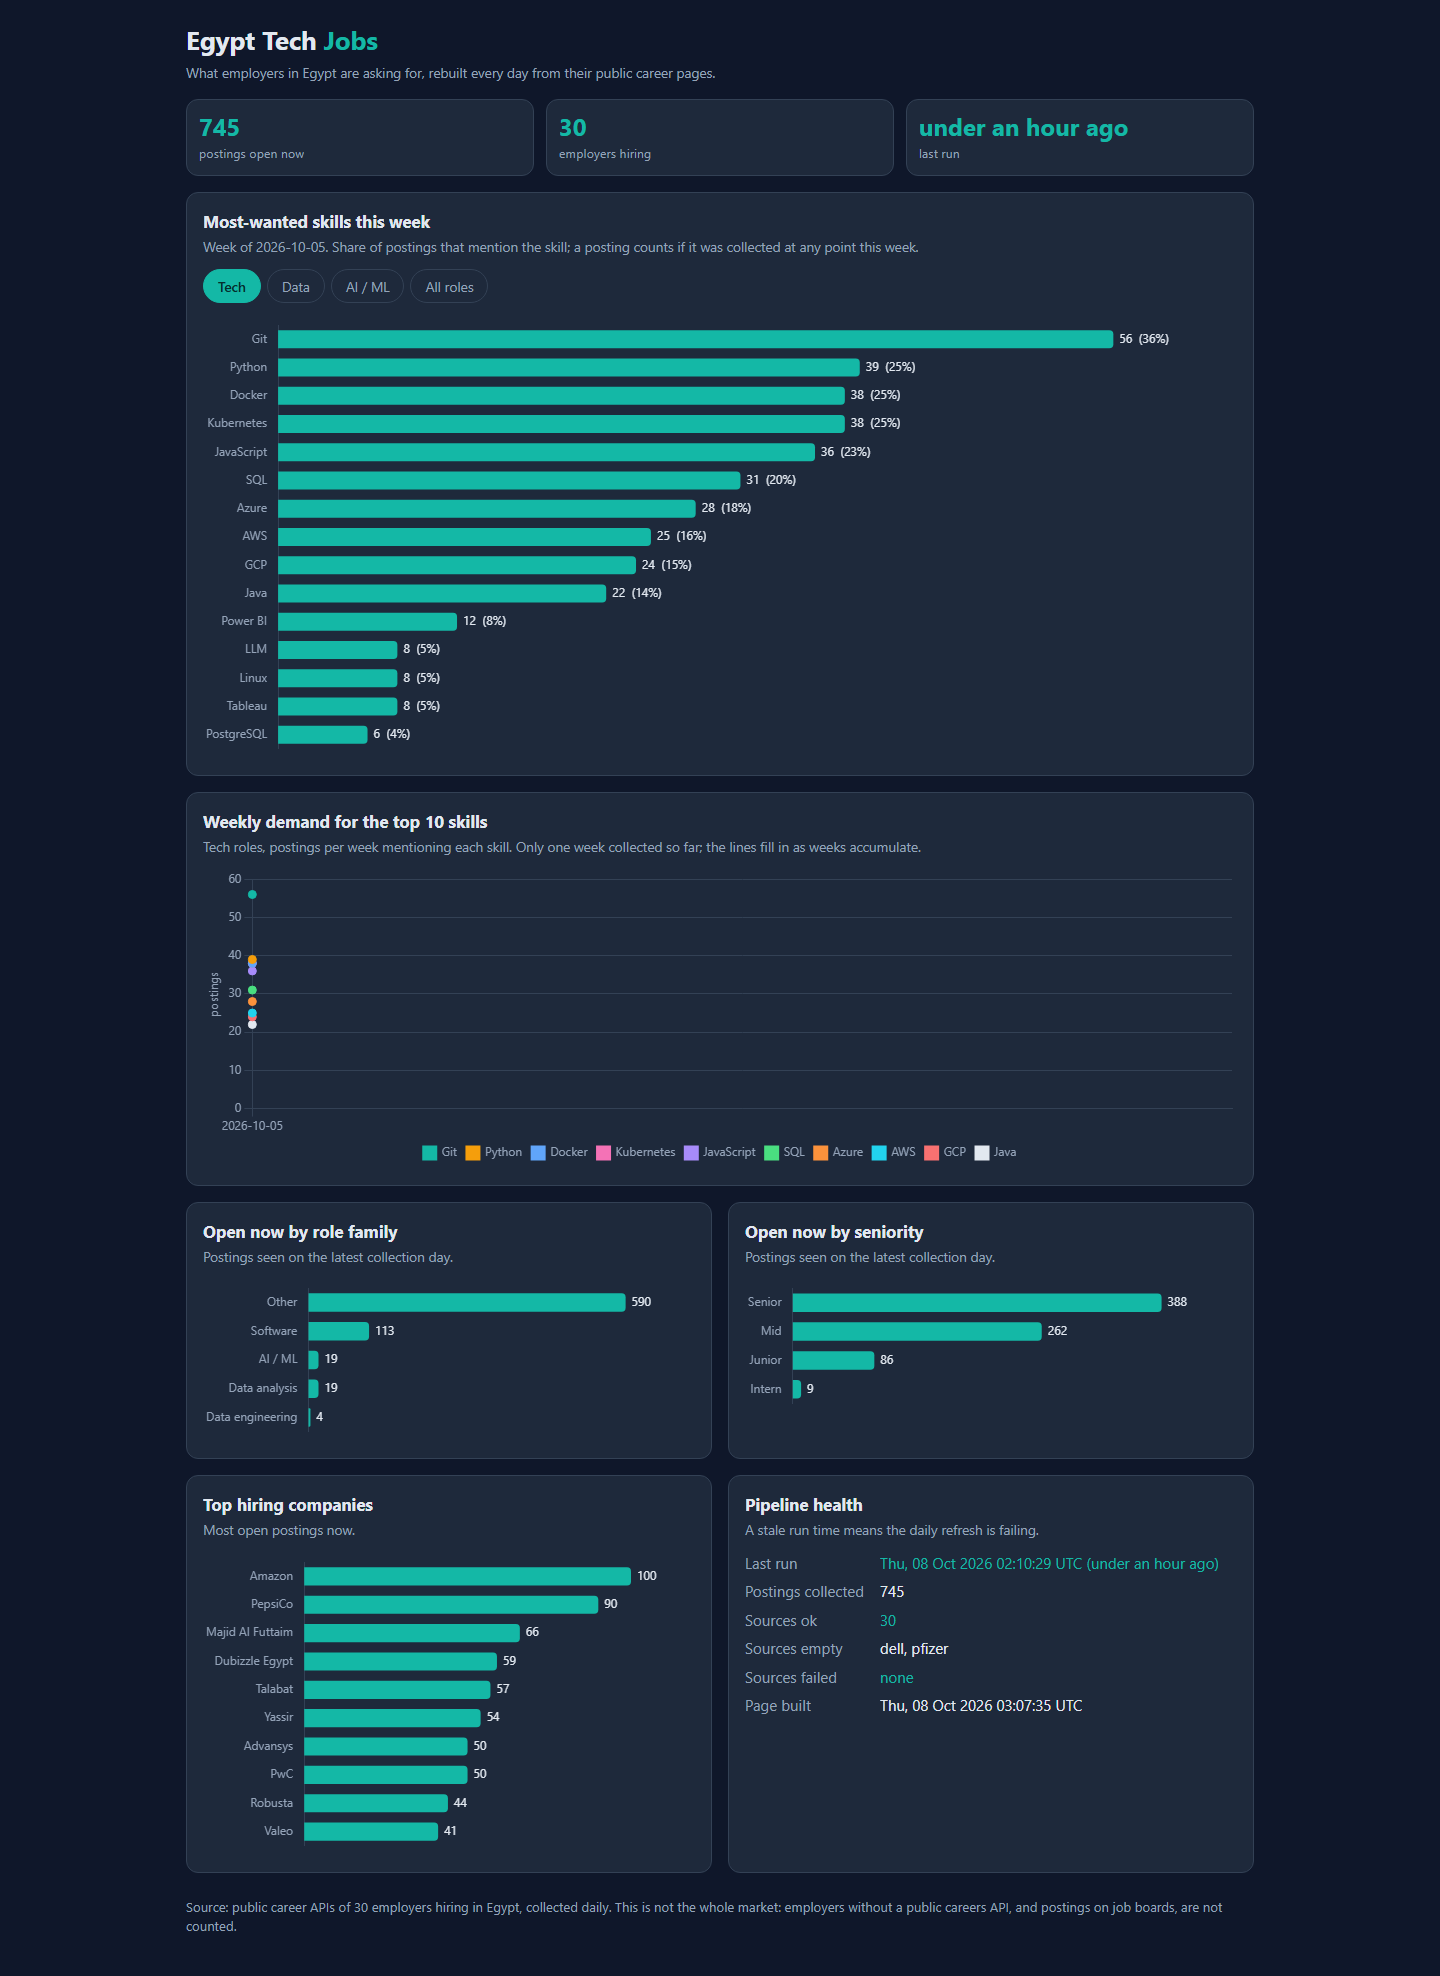
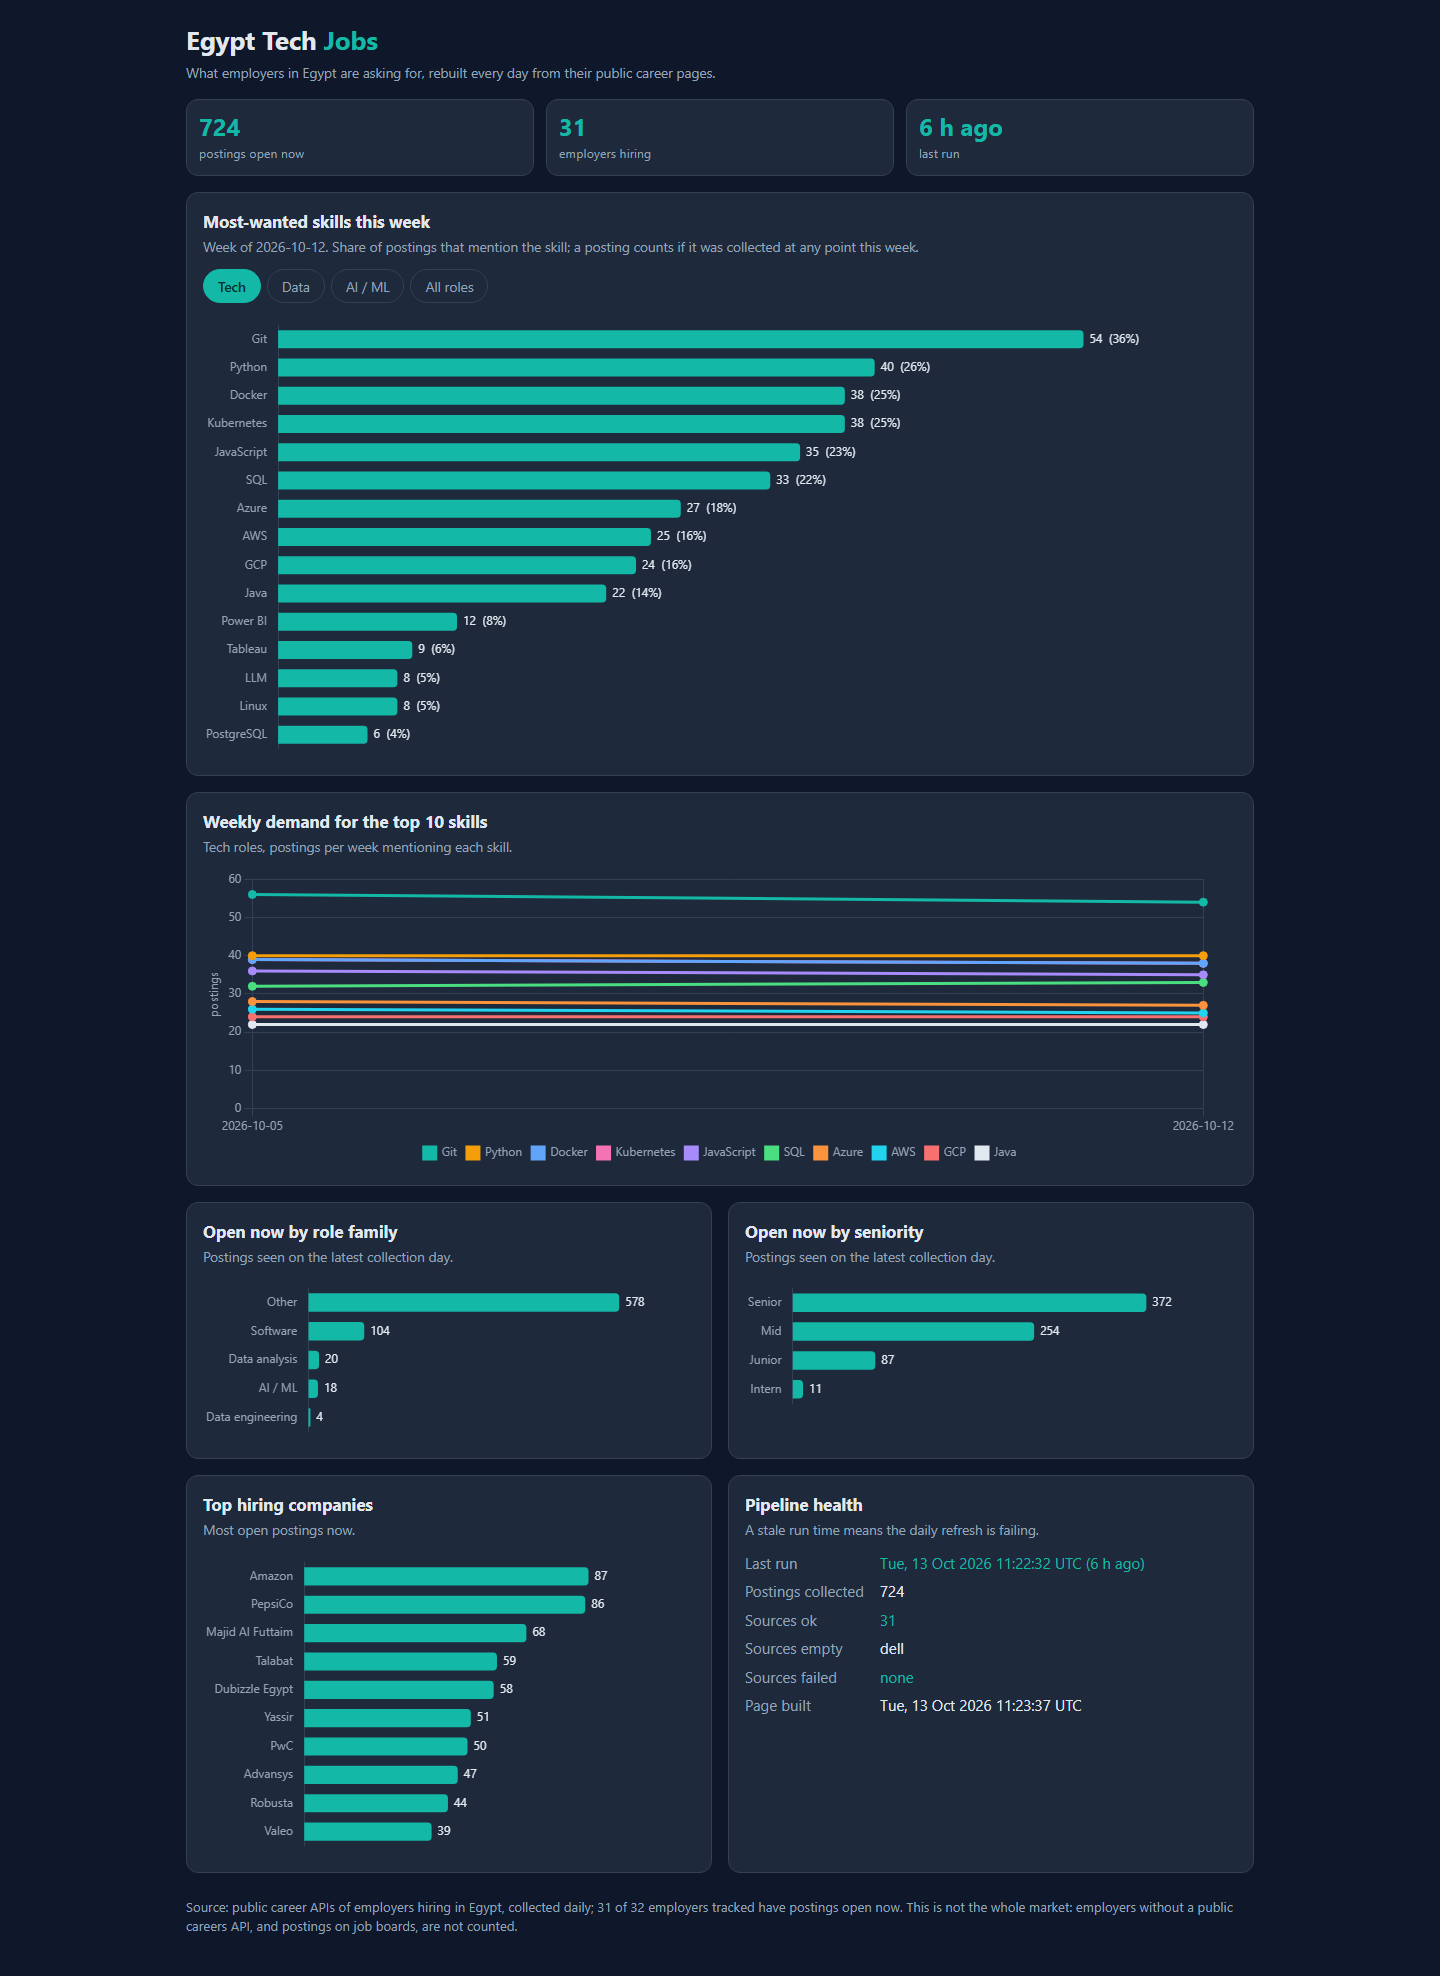
Explain the pipeline step by step in the README, with pictures (#1)
Adds a five-stage overview, follows one real posting from raw row to
fact tables, and shows the dbt lineage, a daily Actions run and today's
dashboard. Updates the data snapshot to 2026-10-13 and notes that
GitHub starts the scheduled run a few hours after 04:00 UTC.

diff --git a/README.md b/README.md
@@ -5,21 +5,68 @@
 
 A data pipeline that collects job postings from 32 employers hiring in Egypt every day, models them with dbt, and publishes a dashboard of which skills and roles are in demand. It runs on GitHub Actions without anyone's machine being on: Python extractors write append-only Parquet files, dbt rebuilds the warehouse from them in DuckDB, and the dashboard is published to GitHub Pages. One mart is also rebuilt independently in PySpark, and CI checks that both give the same rows. If extraction or any dbt test fails, the dashboard is not updated and the previous one stays live. The day's raw data is committed before dbt runs, so a day that fails a dbt test still keeps its files.
 
-**Live dashboard: <https://mooo-9.github.io/egypt-tech-jobs-pipeline/>**
+![The five stages of the daily run](docs/images/pipeline-overview.png)
 
-![The dashboard, built from the first run](docs/images/dashboard.png)
+**Live dashboard: <https://mooo-9.github.io/egypt-tech-jobs-pipeline/>** (a screenshot is in [step 5](#5-publish-the-dashboard-on-github-pages))
 
-## What the first run found
+## How it works, step by step
 
-First run, 2026-10-08. The dashboard updates daily; these numbers are a dated snapshot.
+This follows one real posting, a Data Analyst role at Dubizzle Egypt, through the pipeline. Each section below links to the detailed reference further down.
+
+### 1. Extract: call each employer's career API
+
+Every day, `python -m pipeline.run` reads `companies.yml` and calls each employer's public job API: Workday, Workable, Oracle Cloud, Greenhouse, Lever and six more systems. These are the same endpoints the employers' own careers pages use. Only postings located in Egypt are kept. One employer failing is logged and the run carries on. See [Extraction](#extraction).
+
+### 2. Land: append-only Parquet, one folder per day
+
+Each run writes `data/raw/date=YYYY-MM-DD/postings.parquet` and commits it to the repo. Files are never edited, so every past day can be rebuilt. This is the Dubizzle posting as it was stored on 2026-10-13:
+
+| source_system | company_key | posting_id | title | location | posted_raw |
+|---|---|---|---|---|---|
+| workable | dubizzle | dubizzlemena:28E0D563A0 | Data Analyst | New Cairo City, Egypt | 2026-08-24 |
+
+### 3. Transform: dbt models on DuckDB
+
+dbt rebuilds the warehouse from every raw file on each run: staging cleans the rows, intermediate models work out the lifecycle, role and skills, and the marts are a small star schema. This is the lineage from the dbt docs (seeds on the left, marts on the right):
+
+![dbt lineage: raw postings and seeds through staging and intermediate models to the marts](docs/images/dbt-lineage.png)
+
+After the models run, the same posting looks like this:
+
+| Model | What it holds for this posting |
+|---|---|
+| `stg_postings` | city `Cairo`, posted date `2026-08-24` (parsed from the raw text) |
+| `fct_postings` | role family `data_analysis`, seniority `mid`, first seen `2026-10-08`, last seen `2026-10-13`, open, seen on 6 days |
+| `fct_posting_skills` | Excel, Power BI, Python, SQL, Tableau (one row per skill) |
+
+The weekly skills mart then counts it once in each of those five skills. See [Data model](#data-model).
+
+### 4. Test: nothing is published unless every check passes
+
+`dbt build` runs 31 data tests and 9 unit tests alongside the models, after a source freshness check. Keys must be unique, every fact must point to a known company, no posting can be dated in the future, and skill shares must sit between 0 and 1. If any test fails, the job stops and yesterday's dashboard stays live. On 2026-10-13 all 53 build steps passed. See [How each run is tested](#how-each-run-is-tested).
+
+### 5. Publish: the dashboard on GitHub Pages
+
+`python -m dashboard.build` reads the marts and writes a static page, which is deployed to GitHub Pages. This is one real daily run in GitHub Actions:
+
+![A daily run in GitHub Actions: collect, commit the raw data, source freshness, build the models, build the dashboard, deploy](docs/images/daily-run.png)
+
+And the page it publishes, on 2026-10-13:
+
+<img src="docs/images/dashboard.png" alt="The live dashboard on 2026-10-13: most-wanted skills, weekly trend, open postings by role and seniority, top hiring companies and pipeline health" width="760">
+
+## What the data shows
+
+A dated snapshot from 2026-10-13. The dashboard itself updates daily.
 
 | | |
 |---|---|
-| Postings collected | 745, from 30 of the 32 employers (Dell and Pfizer had none in Egypt that day). Amazon's list was cut at 100 that day; about 110 were open, and it is now read to the end |
-| Open tech postings | 155 (software 113, data analysis 19, AI/ML 19, data engineering 4) |
-| Most-asked skills in tech roles | Git 36%, Python 25%, Docker 25%, Kubernetes 25%, JavaScript 23% |
+| Open postings | 724, from 31 of the 32 employers (Dell had none in Egypt that day) |
+| Open tech postings | 146 (software 104, data analysis 20, AI/ML 18, data engineering 4) |
+| Most-asked skills in tech roles | Git 36%, Python 26%, Docker 25%, Kubernetes 25%, JavaScript 23% |
+| Seniority | 372 senior, 254 mid, 87 junior, 11 internships |
 
-Percentages are the share of open tech postings that mention the skill. Only one collection day exists so far, so the trend chart has a single point; it fills in as days accumulate.
+Percentages are the share of open tech postings that mention the skill. The first run, on 2026-10-08, collected 745 postings from 30 employers.
 
 ## Architecture
 
@@ -37,7 +84,7 @@ flowchart TD
 
 The solid path is what runs today. The dashed Airflow and Postgres path is planned.
 
-A daily run (`.github/workflows/daily.yml`, 04:00 UTC) does this:
+A daily run (`.github/workflows/daily.yml`, scheduled for 04:00 UTC; GitHub usually starts scheduled runs a few hours later) does this:
 
 1. `python -m pipeline.run` calls every employer's job API and writes that day's `postings.parquet` and a `run_summary.json` (status, rows, error and duration per company, and `truncated` when a capped API listed more postings than were read).
 2. The new files are committed to the repo as `data: YYYY-MM-DD`. The commit is the storage layer.
@@ -185,5 +232,5 @@ scripts/                add-a-company helpers and fixture generators
 tests/                  pytest tests and fixtures
 requirements-spark.txt  PySpark, needed only for the parity test and the Spark job
 .github/workflows/      ci.yml and daily.yml
-docs/                   design spec and the dashboard screenshot
+docs/                   design spec and the README images
 ```
